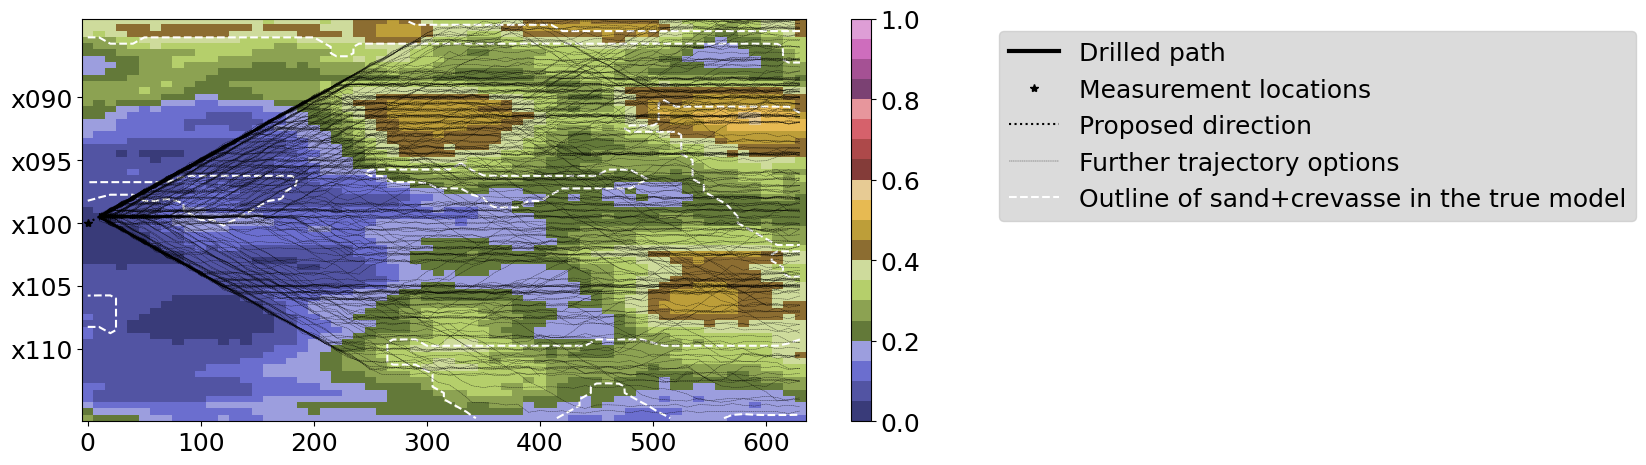
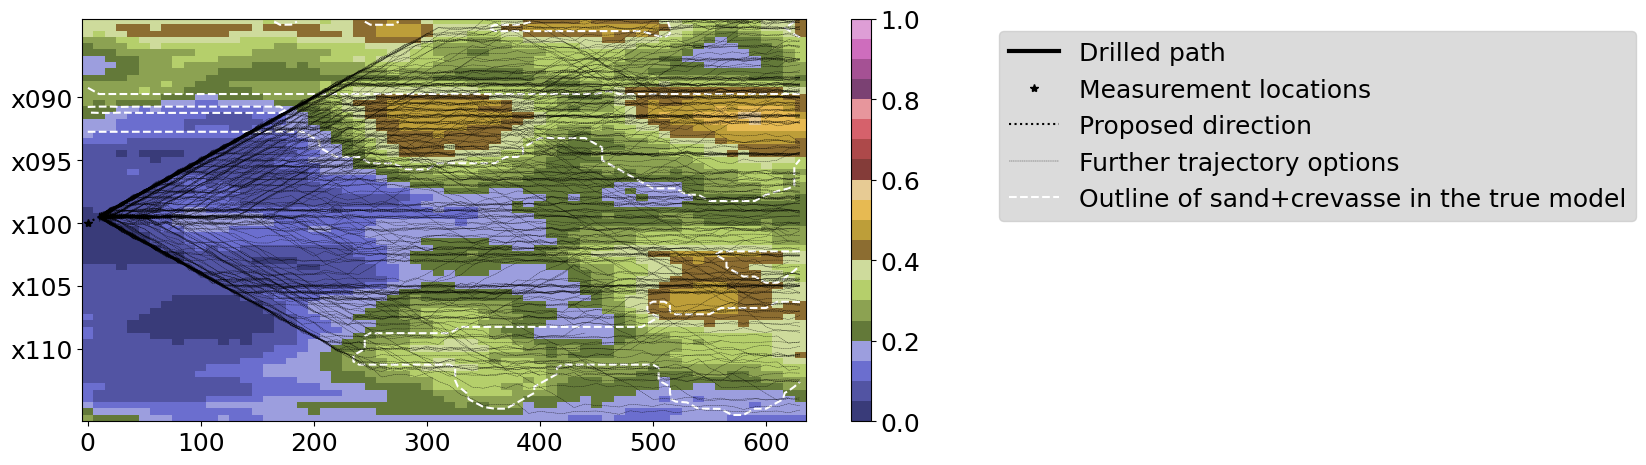
Refactored and added conversion to resistivity image

Changed region(s): [[0.062, 0.0301, 0.4957, 0.9032], [0.093, 0.0602, 0.1859, 0.0903]]

diff --git a/plot_result.py b/plot_result.py
@@ -22,9 +22,17 @@ sys.path.append(prefix + '../gan-geosteering')
 
 from input_output import read_config
 from GAN import GanLog
+from resitivity import get_resistivity_default
 from vector_to_image import GanEvaluator
 from DP import perform_dynamic_programming, evaluate_earth_model, create_weighted_image
 
+def convert_facies_to_resistivity(single_facies_model):
+    my_shape = single_facies_model.shape
+    result = np.zeros((my_shape[1], my_shape[2]))
+    for i in range(my_shape[1]):
+        for j in range(my_shape[2]):
+            result[i, j] = get_resistivity_default(single_facies_model[:, i, j])
+    return result
 
 # import warnings
 # # Ignore FutureWarning and UserWarning
@@ -50,6 +58,10 @@ def main():
         os.makedirs(plot_path)
 
     saved_legend = False
+
+    synth_truth = np.load('../gan-geosteering/saves/chosen_realization_C1.npz')['arr_0']
+    true_earth_model_facies = gan_evaluator.eval(input_vec=synth_truth)
+    true_resistivity_image = convert_facies_to_resistivity(true_earth_model_facies)
 
     # todo load from the config file! @KriFos1
     # Define the origin
@@ -93,9 +105,7 @@ def main():
         x = np.array(range(64))
         y = np.array(range(64))
         X, Y = np.meshgrid(x, y)
-        synth_truth = np.load(os.path.join(prefix,'../gan-geosteering/saves/chosen_realization_C1.npz'))['arr_0']
-        single_model = gan_evaluator.eval(input_vec=synth_truth)
-        Z = single_model[0, :, :]
+        Z = true_earth_model_facies[0, :, :]
         contour_style = 'dashed'
         contour_color = 'white'
         contour = plt.contour(X, Y, Z, levels=0, colors=contour_color,

diff --git a/GAN/GAN.py b/GAN/GAN.py
@@ -14,7 +14,8 @@ if __name__ == '__main__':
     sys.path.append(prefix + '../deepEMdeepML2/deep-borehole-inverse-problem/USER_SERGEY')
     sys.path.append(prefix + '../gan-geosteering')
     # TODO check paths here
-
+else:
+    prefix = ''
 
 
 
@@ -27,8 +28,9 @@ from resitivity import get_resistivity_default
 # warnings.filterwarnings(action='ignore', category=FutureWarning)
 # warnings.filterwarnings(action='ignore', category=UserWarning)
 
+
 class GanLog:
-    def __init__(self,input_dict=None):
+    def __init__(self, input_dict=None):
         self.input_dict = input_dict
         self.get_resistivity_default = get_resistivity_default
         self.convert = mcwd_converter.convert_to_mcwd_input
